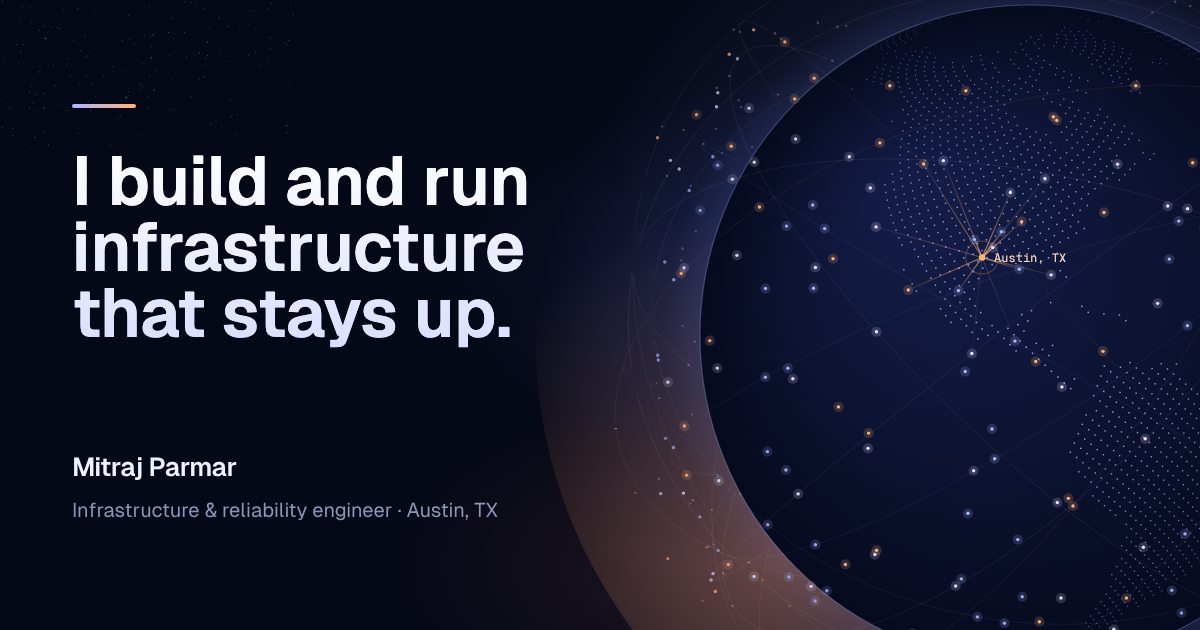
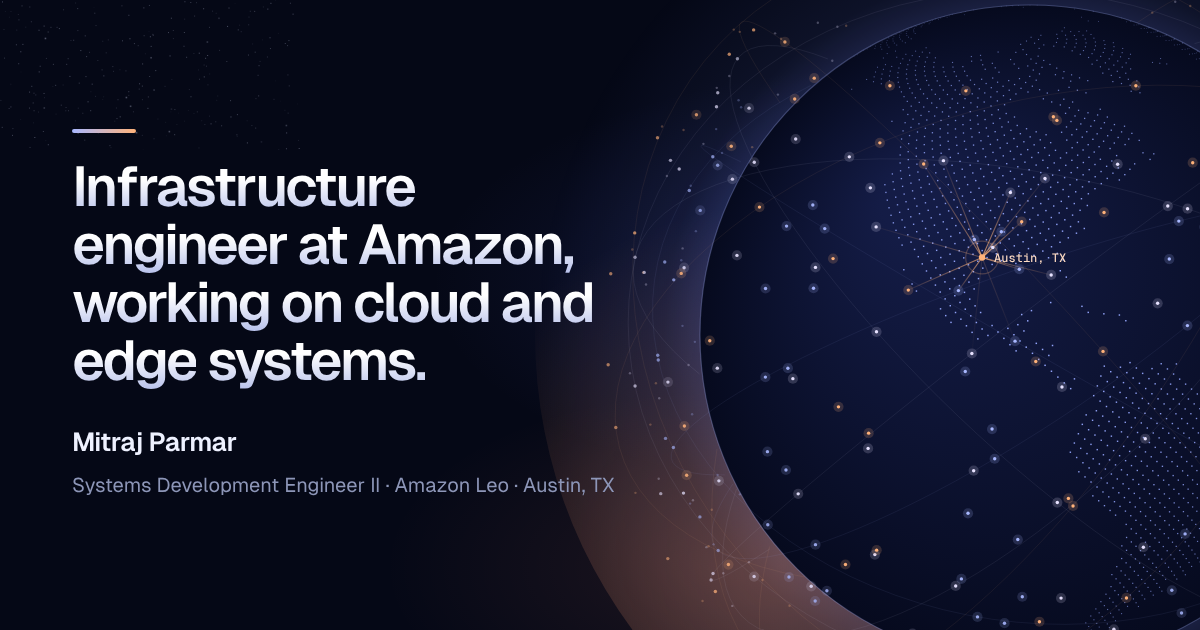
Rewrite hero and work copy in plainer language; remove How I work section
Claude-Session: https://claude.ai/code/session_01MtNMfSEShB4h63GHcapbBh

Changed region(s): [[0.0617, 0.2413, 0.4933, 0.6333], [0.0617, 0.6635, 0.5242, 0.8444], [0.0617, 0.1508, 0.1233, 0.2111]]

diff --git a/index.html b/index.html
@@ -13,14 +13,14 @@
 <meta property="og:url" content="https://mitrajparmar93.github.io/">
 <meta property="og:site_name" content="Mitraj Parmar">
 <meta property="og:title" content="Mitraj Parmar · Infrastructure & Reliability Engineer">
-<meta property="og:description" content="I build and run infrastructure that stays up.">
+<meta property="og:description" content="Infrastructure engineer at Amazon, working on cloud and edge systems.">
 <meta property="og:image" content="https://mitrajparmar93.github.io/og-image.png">
 <meta property="og:image:width" content="1200">
 <meta property="og:image:height" content="630">
-<meta property="og:image:alt" content="Mitraj Parmar: I build and run infrastructure that stays up.">
+<meta property="og:image:alt" content="Mitraj Parmar: Infrastructure engineer at Amazon, working on cloud and edge systems.">
 <meta name="twitter:card" content="summary_large_image">
 <meta name="twitter:title" content="Mitraj Parmar · Infrastructure & Reliability Engineer">
-<meta name="twitter:description" content="I build and run infrastructure that stays up.">
+<meta name="twitter:description" content="Infrastructure engineer at Amazon, working on cloud and edge systems.">
 <meta name="twitter:image" content="https://mitrajparmar93.github.io/og-image.png">
 
 <link rel="icon" href="favicon.svg" type="image/svg+xml">
@@ -138,7 +138,7 @@ a { color: inherit; }
 .pill i { width: 8px; height: 8px; border-radius: 50%; background: var(--dawn); box-shadow: 0 0 0 0 rgba(255,178,122,.6); animation: beacon 2.4s infinite; }
 @keyframes beacon { 0% { box-shadow: 0 0 0 0 rgba(255,178,122,.55); } 70% { box-shadow: 0 0 0 10px rgba(255,178,122,0); } 100% { box-shadow: 0 0 0 0 rgba(255,178,122,0); } }
 h1 {
-  font-size: clamp(2.6rem, 6.4vw, 5.6rem); line-height: .98; letter-spacing: -0.048em; font-weight: 600;
+  font-size: clamp(2.3rem, 4.6vw, 4.2rem); line-height: 1.02; letter-spacing: -0.048em; font-weight: 600;
   margin: 0 0 28px; text-wrap: balance; color: #F4F6FF;
 }
 h1 .w { display: inline-block; padding-bottom: .06em; background: linear-gradient(180deg, #FFFFFF 35%, #B4BEEA 100%); -webkit-background-clip: text; background-clip: text; color: transparent; }
@@ -175,11 +175,8 @@ h1 .w { display: inline-block; padding-bottom: .06em; background: linear-gradien
   .globe { width: 150vw; right: -62vw; top: -30px; transform: none; opacity: .9; }
   .hero .wrap { padding-top: 320px; padding-bottom: 64px; }
   .drag-hint { display: none; }
-  .pill .long { display: none; }
   .tree { font-size: 12px; }
 }
-.pill .short { display: none; }
-@media (max-width: 560px) { .pill .short { display: inline; } }
 
 /* Load sequence: headline words rise out of blur, then the rest settles in. */
 .intro .w { opacity: 0; filter: blur(12px); transform: translateY(.35em); animation: rise .9s cubic-bezier(.2,.7,.1,1) forwards; animation-delay: calc(var(--i) * 55ms + 150ms); }
@@ -277,27 +274,6 @@ h2 { font-size: clamp(2.1rem, 4.6vw, 3.6rem); letter-spacing: -0.045em; line-hei
 .tree b { color: var(--text); font-weight: 500; }
 .tree em { font-style: normal; color: var(--dawn); }
 .tree s { text-decoration: none; color: var(--faint); }
-
-/* ---------- How I work ---------- */
-.principles { display: grid; grid-template-columns: repeat(3, 1fr); border-top: 1px solid var(--line); }
-.principles > div { padding: 32px 32px 36px 0; border-bottom: 1px solid var(--line); }
-.principles > div:not(:nth-child(3n+1)) { padding-left: 32px; border-left: 1px solid var(--line); }
-.principles svg { width: 26px; height: 26px; color: var(--dawn); margin-bottom: 18px; }
-.principles h3 { font-size: 1.3rem; font-weight: 600; letter-spacing: -.03em; margin: 0 0 8px; }
-.principles p { color: var(--muted); margin: 0; font-size: 15.5px; max-width: 38ch; }
-@media (max-width: 900px) {
-  .principles { grid-template-columns: 1fr 1fr; }
-  .principles > div, .principles > div:not(:nth-child(3n+1)) { padding: 28px 24px 30px 0; border-left: 0; }
-  .principles > div:nth-child(2n) { padding-left: 24px; border-left: 1px solid var(--line); }
-}
-@media (max-width: 600px) {
-  .principles { grid-template-columns: 1fr; }
-  .principles > div:nth-child(2n) { padding-left: 0; border-left: 0; }
-}
-.platform-note { margin-top: 32px; padding: 26px 30px; border-radius: var(--r-tile); border: 1px solid rgba(255,178,122,.22);
-  background: linear-gradient(110deg, rgba(255,178,122,.08), rgba(169,184,255,.05)); }
-.platform-note p { margin: 0; color: var(--muted); max-width: 80ch; }
-.platform-note strong { color: var(--text); font-weight: 600; }
 
 /* ---------- Experience ---------- */
 .span-bar { margin-top: 28px; width: 100%; }
@@ -422,7 +398,6 @@ footer .wrap { display: flex; justify-content: space-between; gap: 12px; flex-wr
 <nav class="nav" aria-label="Primary">
   <a class="mono-mark" href="#top" aria-label="Mitraj Parmar, back to top">MP</a>
   <a class="link" href="#work">Work</a>
-  <a class="link opt" href="#approach">Approach</a>
   <a class="link" href="#experience">Experience</a>
   <a class="link opt" href="#stack">Stack</a>
   <a class="cta" href="#contact">Contact</a>
@@ -436,9 +411,9 @@ footer .wrap { display: flex; justify-content: space-between; gap: 12px; flex-wr
 
   <div class="wrap">
     <div class="hero-copy">
-      <div class="pill fade" style="--d:.05s"><i></i><span><span class="long">Systems Development Engineer II</span><span class="short">Systems Development Engineer</span> at Amazon Leo</span></div>
-      <h1 id="headline">I build and run<br> infrastructure that stays up.</h1>
-      <p class="lede fade" style="--d:.85s">I'm <strong>Mitraj Parmar</strong>, a systems development engineer at Amazon. Across an airline, a payments company, a payroll platform and three Amazon teams, one habit has stayed the same. After an outage, I go back and make that failure impossible.</p>
+      <div class="pill fade" style="--d:.05s"><i></i><span>Amazon Leo · Austin, TX</span></div>
+      <h1 id="headline">Infrastructure engineer at Amazon, working on cloud and edge systems.</h1>
+      <p class="lede fade" style="--d:.85s">I'm <strong>Mitraj Parmar</strong>. At Amazon Leo, Amazon's satellite internet program, I run the AWS infrastructure behind the program's engineering tools and manufacturing systems. Before that, I spent ten years on networks, cloud platforms and device fleets at Delta, PayPal, ADP, AWS and Amazon Robotics.</p>
       <div class="actions fade" style="--d:1s">
         <a class="btn primary" href="#contact" data-mail>
           <svg viewBox="0 0 24 24" fill="none" stroke="currentColor" stroke-width="2" stroke-linecap="round" stroke-linejoin="round"><rect x="3" y="5" width="18" height="14" rx="2"/><path d="m3 7 9 6 9-6"/></svg>
@@ -479,14 +454,14 @@ footer .wrap { display: flex; justify-content: space-between; gap: 12px; flex-wr
   <div class="wrap">
     <div class="head">
       <h2 id="work-h">Selected work</h2>
-      <p>I measure the problem first, then automate the fix and run it in production.</p>
+      <p>Recent projects.</p>
     </div>
 
     <div class="bento">
       <article class="tile t-alarm">
         <p class="where">Amazon Leo, 2026</p>
         <h3>Alarms tied to real impact</h3>
-        <p>Production alarms fired on how often things happened, with no tie to whether anyone was hurt. I built a tool that ranks every alarm by how closely it tracks real impact, then led the redesign to impact-correlated CloudWatch signals.</p>
+        <p>Alarms used to fire based on how often an event happened, not on whether it affected anyone. I built a tool that ranks each alarm by how closely it matches real impact on users, then led the move to CloudWatch alarms based on that impact.</p>
         <div class="chart" id="chart" data-mode="volume">
           <div class="chart-top">
             <small>Illustration: same week, two alarm strategies</small>
@@ -543,51 +518,6 @@ footer .wrap { display: flex; justify-content: space-between; gap: 12px; flex-wr
 └─ <b>tests/</b>  pytest <em>+ hypothesis</em></div>
         <ul class="tags"><li>Terraform</li><li>Fargate</li><li>Step Functions</li><li>CodePipeline</li></ul>
       </article>
-    </div>
-  </div>
-</section>
-
-<!-- ================= APPROACH ================= -->
-<section class="section" id="approach" aria-labelledby="ap-h">
-  <div class="wrap">
-    <div class="head">
-      <h2 id="ap-h">How I work</h2>
-      <p>These habits have held on every team I've worked on, whatever the stack.</p>
-    </div>
-    <div class="principles">
-      <div>
-        <svg viewBox="0 0 24 24" fill="none" stroke="currentColor" stroke-width="1.7" stroke-linecap="round" stroke-linejoin="round"><circle cx="11" cy="11" r="7"/><path d="m20 20-3.5-3.5M11 8v6M8 11h6"/></svg>
-        <h3>Measure before I act</h3>
-        <p>I start with read-only access to the live system rather than the docs, and build an inventory before I propose a change.</p>
-      </div>
-      <div>
-        <svg viewBox="0 0 24 24" fill="none" stroke="currentColor" stroke-width="1.7" stroke-linecap="round" stroke-linejoin="round"><path d="M3 12h4l3-8 4 16 3-8h4"/></svg>
-        <h3>Follow the evidence</h3>
-        <p>If a signal contradicts my theory, I drop the theory. After two identical failures in a row, I look at a different layer.</p>
-      </div>
-      <div>
-        <svg viewBox="0 0 24 24" fill="none" stroke="currentColor" stroke-width="1.7" stroke-linecap="round" stroke-linejoin="round"><path d="M12 3 4 6v6c0 4.5 3.4 8.2 8 9 4.6-.8 8-4.5 8-9V6z"/><path d="m9 12 2 2 4-4"/></svg>
-        <h3>Verify against the source of truth</h3>
-        <p>A diff or a dashboard can be confidently wrong. Before production changes I check the source of truth, and I ship once it's confirmed.</p>
-      </div>
-      <div>
-        <svg viewBox="0 0 24 24" fill="none" stroke="currentColor" stroke-width="1.7" stroke-linecap="round" stroke-linejoin="round"><path d="M5 12h14M13 6l6 6-6 6"/><path d="M5 5v14"/></svg>
-        <h3>Finish the migration</h3>
-        <p>I ship the new path, retire the old one and delete the dead configuration.</p>
-      </div>
-      <div>
-        <svg viewBox="0 0 24 24" fill="none" stroke="currentColor" stroke-width="1.7" stroke-linecap="round" stroke-linejoin="round"><path d="M4 7h16M9 7V4h6v3M6 7l1 13h10l1-13"/></svg>
-        <h3>Delete what I can</h3>
-        <p>Often the best fix is deleting the component. Then it can't drift, page anyone or need patching.</p>
-      </div>
-      <div>
-        <svg viewBox="0 0 24 24" fill="none" stroke="currentColor" stroke-width="1.7" stroke-linecap="round" stroke-linejoin="round"><path d="M14 3H6a2 2 0 0 0-2 2v14a2 2 0 0 0 2 2h12a2 2 0 0 0 2-2V9z"/><path d="M14 3v6h6M8 13h8M8 17h5"/></svg>
-        <h3>Write for whoever inherits it</h3>
-        <p>I write design docs that name their trade-offs and runbooks any on-call engineer can follow without me in the room.</p>
-      </div>
-    </div>
-    <div class="platform-note">
-      <p><strong>Build for self-service.</strong> Where I can, I build the path so other teams can onboard without waiting on my team. I also adopted AI coding agents early, and build tooling around them at work and on my own time.</p>
     </div>
   </div>
 </section>
@@ -701,7 +631,7 @@ footer .wrap { display: flex; justify-content: space-between; gap: 12px; flex-wr
   <div class="wrap">
     <div class="head">
       <h2 id="stack-h">Stack</h2>
-      <p>Tools I use.</p>
+      <p>Tools I use day to day, including AI coding agents.</p>
     </div>
     <div class="stack">
       <div>
@@ -1078,7 +1008,7 @@ footer .wrap { display: flex; justify-content: space-between; gap: 12px; flex-wr
   const io = new IntersectionObserver(es => es.forEach(e => {
     if (e.isIntersecting) links.forEach(l => l.classList.toggle('on', l.getAttribute('href') === '#' + e.target.id));
   }), { rootMargin: '-45% 0px -50% 0px' });
-  ['work', 'approach', 'experience', 'stack'].forEach(id => io.observe(document.getElementById(id)));
+  ['work', 'experience', 'stack'].forEach(id => io.observe(document.getElementById(id)));
 
   /* ---------- Email: assembled at runtime so scrapers reading the HTML don't find it ---------- */
   const EMAIL = ['mitrajparmar93', 'gmail.com'].join(String.fromCharCode(64));

diff --git a/404.html b/404.html
@@ -38,7 +38,7 @@
 <body>
   <main>
     <div class="orbit" aria-hidden="true"><div class="ring"></div><div class="planet"></div></div>
-    <h1>Signal lost.</h1>
+    <h1>Page not found.</h1>
     <p>This page doesn't exist, or it moved.</p>
     <a href="/">Back to the homepage</a>
   </main>
